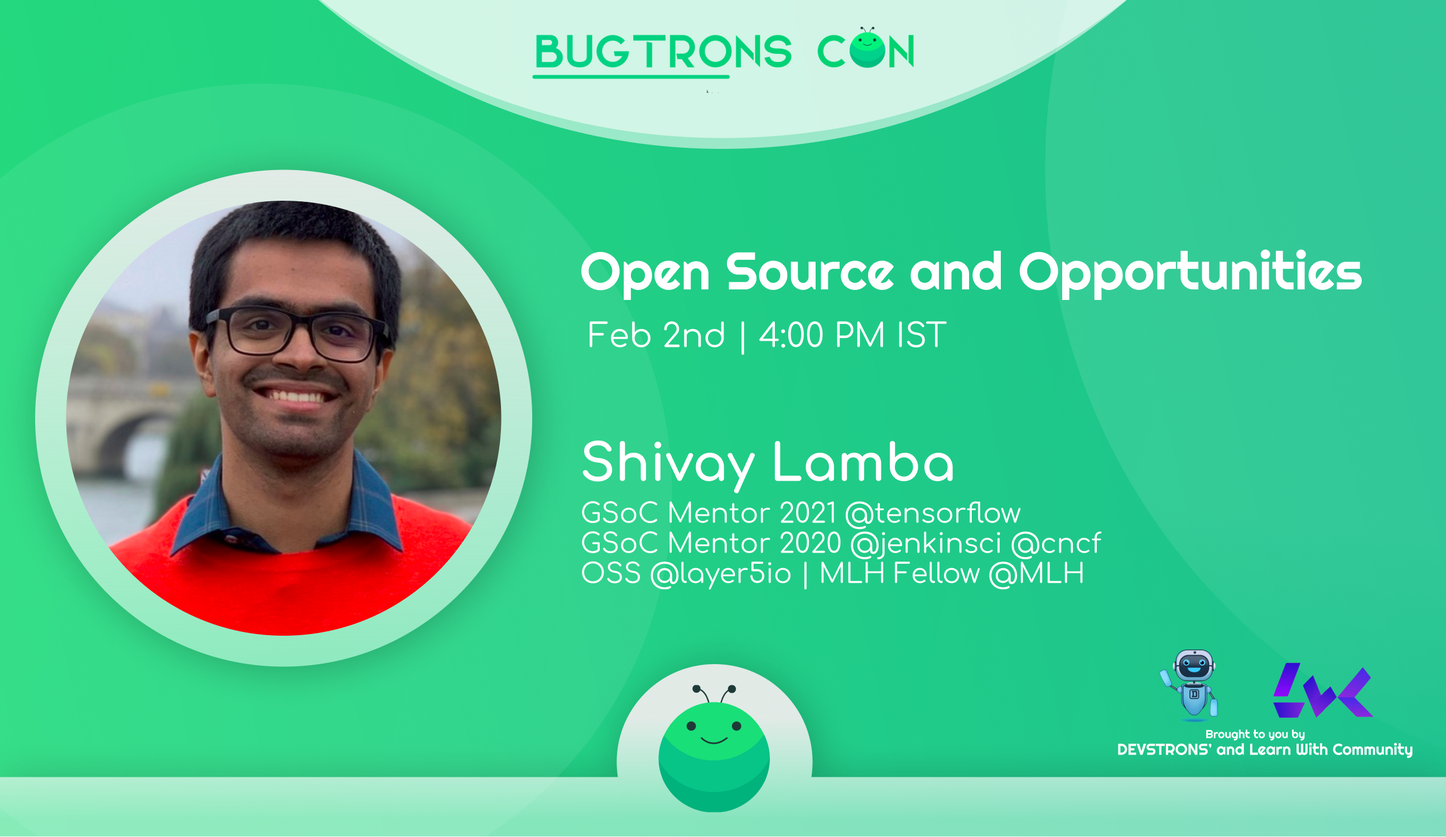
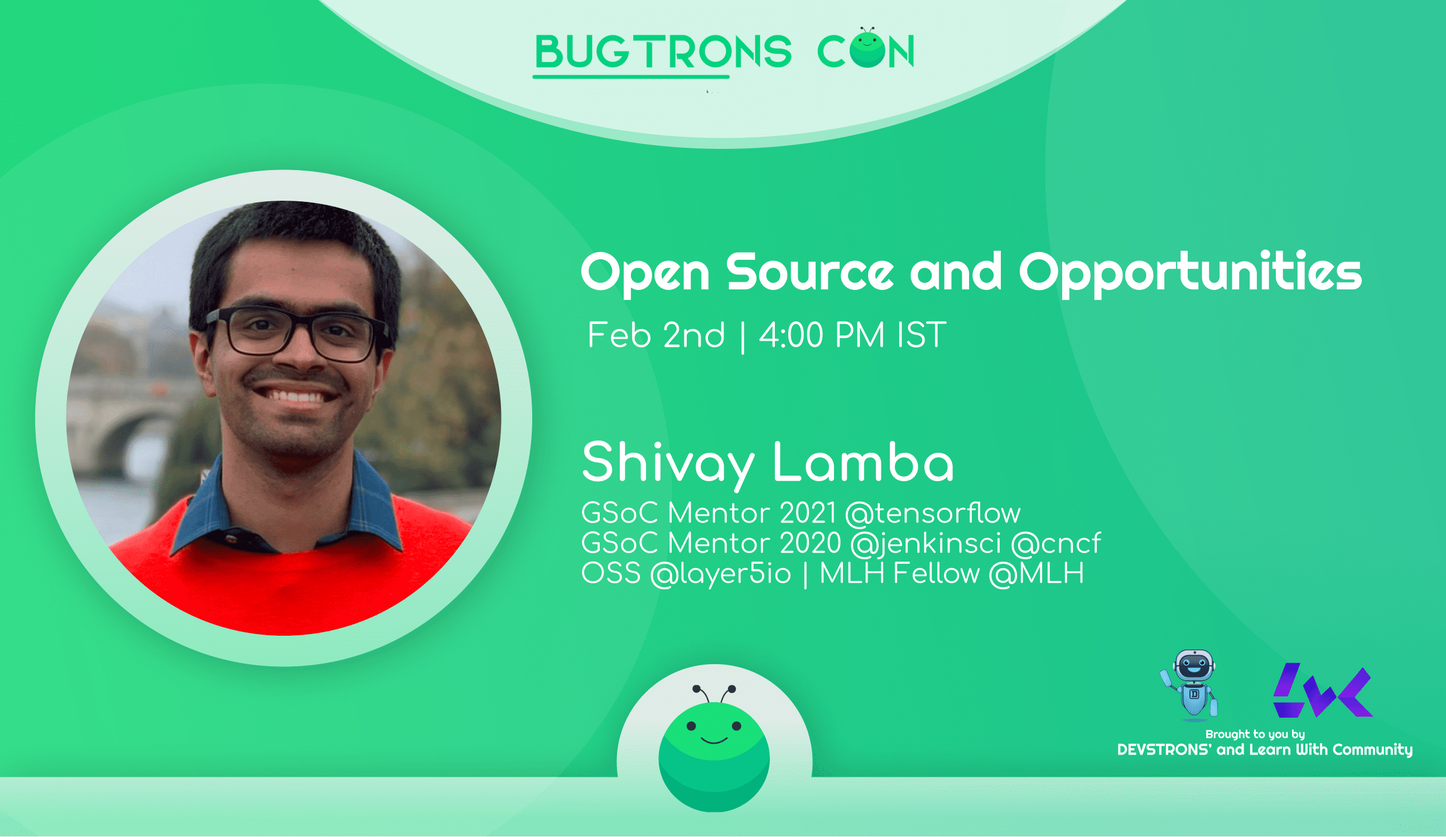
Image optimization and link to con in scd

diff --git a/src/Components/Speakers/SpeakersPodcast.js b/src/Components/Speakers/SpeakersPodcast.js
@@ -5,9 +5,6 @@ import rahul from "./pic/rahul.jpg";
 import aditya from "./pic/aditya.jpg";
 import Lakshit from "./pic/Lakshit.jpg";
 import surabh from "./pic/surabh.jpg";
-import praveen from "./pic/praveen.jpg";
-import sangam from "./pic/Sangam.jpg";
-import santosh from "./pic/santosh.jpg";
 
 import "./Speakers.scss";
 export default function Speakers() {
@@ -18,7 +15,7 @@ export default function Speakers() {
         <Card
           name="saksham"
           img={saksham}
-          position="DevRel @ Microsoft Edge"
+          position="Founder @ The Cyber Council"
           github="https://github.com/sivsouvam/"
           linkedin="https://www.linkedin.com/in/sivsouvam/"
           gmail="mailto:v-sbachu@microsoft.com"

diff --git a/src/Components/Schedule/Schedule.js b/src/Components/Schedule/Schedule.js
@@ -1,6 +1,7 @@
 import React from "react";
 import { Tabs, Tab } from "react-bootstrap";
 import "./Schedule.scss";
+import { Link } from "react-router-dom";
 
 export default function Schedule() {
   return (
@@ -15,6 +16,11 @@ export default function Schedule() {
     >
       <div className="schedule">
         <div className="schedule-head">Schedule</div>
+        <div className="context">
+          <Link to="/connect">
+            <p>Click to see our pre event page</p>
+          </Link>
+        </div>
         <Tabs
           defaultActiveKey="Mar3"
           id="uncontrolled-tab-example"

diff --git a/src/Components/Schedule/Schedule.scss b/src/Components/Schedule/Schedule.scss
@@ -4,6 +4,19 @@
   width: 80%;
   margin: auto;
   padding-top: 5rem;
+  .context {
+    text-align: center;
+    text-decoration: none;
+    color: black;
+    p {
+      color: black;
+      &:hover {
+        text-decoration: underline;
+        color: black;
+      }
+    }
+  }
+
   .schedule-head {
     font-family: "Montserrat", sans-serif;
     font-size: 2.5rem;
